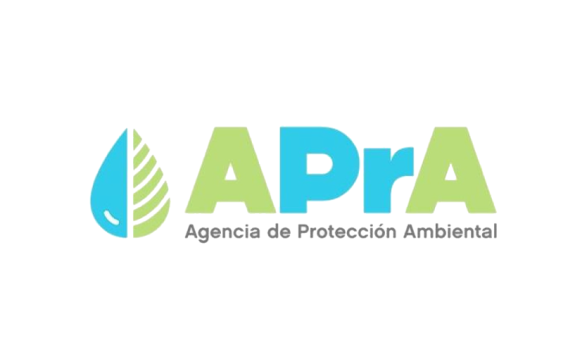
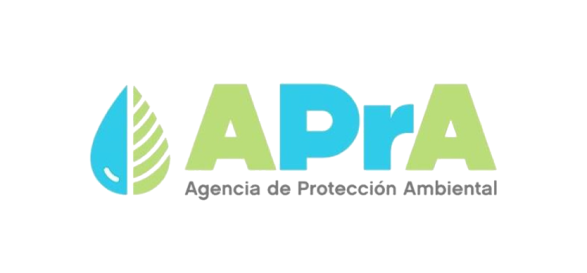
Legales

diff --git a/css/styles.css b/css/styles.css
@@ -664,7 +664,6 @@ form button:hover {
 /* =========================
    Logos Legales
    ========================= */
-
 .logos-contacto {
     display: flex;
     justify-content: center;
@@ -679,19 +678,23 @@ form button:hover {
     flex-direction: column;
     align-items: center;
     max-width: 150px;
+    min-height: 180px;
+    justify-content: space-between;
+    text-align: center;
 }
 
 .logo-item img {
-    max-height: 60px;
-    max-width: 150px;
+    max-width: 130px;
     object-fit: contain;
+
 }
 
 .logo-item p {
-    margin-top: 10px;
     font-size: 14px;
     color: #444;
+    margin-top: 10px;
 }
+
 
 /* =========================
    WhatsApp
